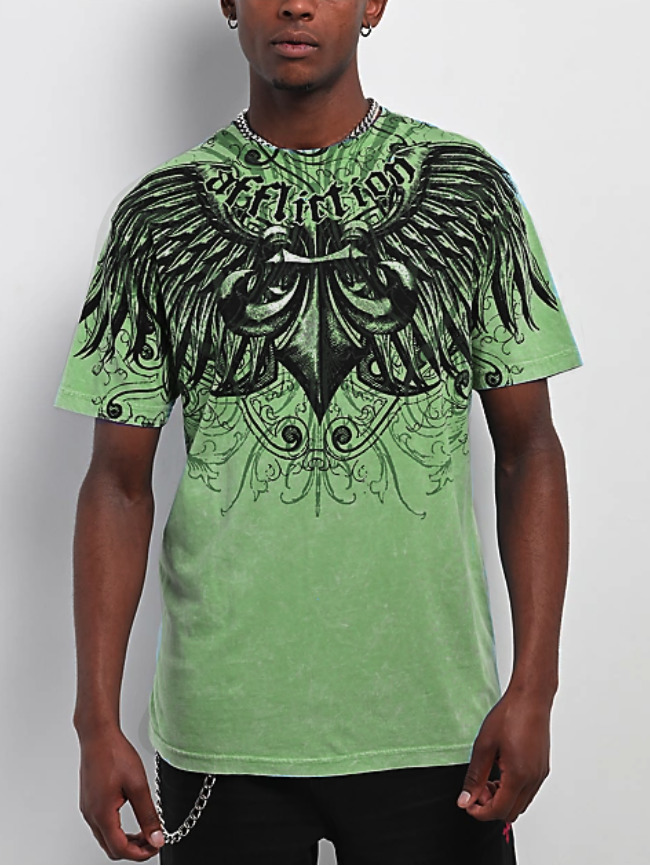
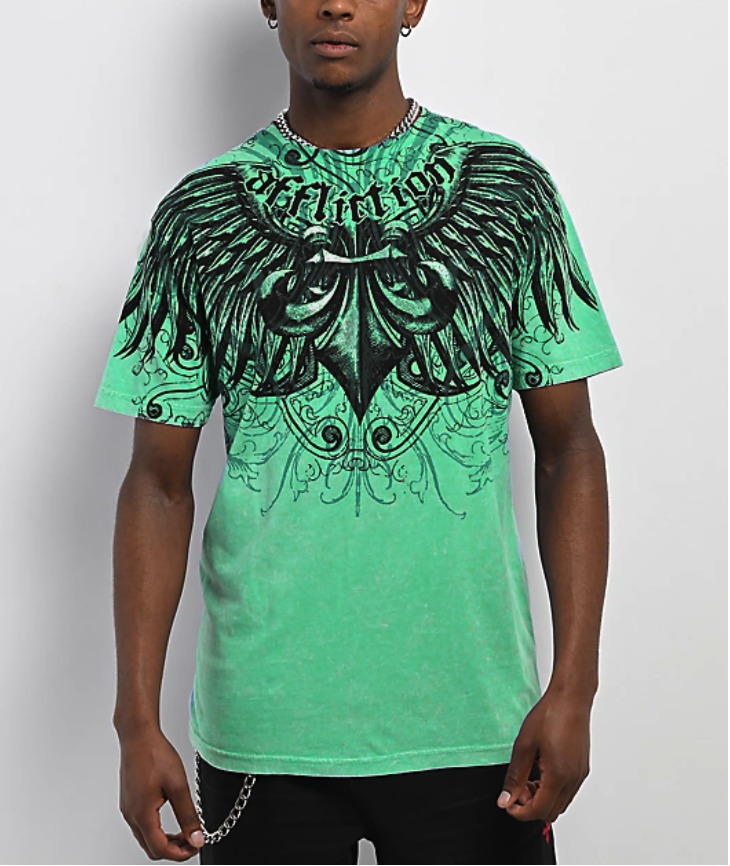
Add files via upload

diff --git a/gra1144cp6HaileyBallard2026/index.html b/gra1144cp6HaileyBallard2026/index.html
@@ -39,13 +39,185 @@ button:hover {
     background-color: #8DC3E3;
 }
 #purpleswatch {
-    background-color: #AE65DA;
+    background-color: #7D2782;
 }
 #greenswatch {
-    background-color: #92C28A;
+    background-color: #00C58B;
 }
 #product {
     position: relative;
+}
+:root {
+  --zumiez-black: #000000;
+  --zumiez-white: #ffffff;
+  --zumiez-gray: #f4f4f4;
+  --zumiez-red: #d0021b; /* Used for Sale text */
+}
+
+body {
+  margin: 0;
+  font-family: "Helvetica Neue", Arial, sans-serif;
+}
+
+.header-container {
+  max-width: 1200px;
+  margin: 0 auto;
+  display: flex;
+  align-items: center;
+  justify-content: space-between;
+  padding: 0 20px;
+}
+
+/* 1. Utility Bar */
+.utility-bar {
+  background-color: var(--zumiez-black);
+  color: white;
+  font-size: 11px;
+  text-transform: uppercase;
+  padding: 8px 0;
+}
+
+.utility-links a {
+  color: white;
+  text-decoration: none;
+  margin-left: 15px;
+}
+
+/* 2. Main Header */
+.main-header {
+  padding: 20px 0;
+  border-bottom: 1px solid #ddd;
+}
+
+.logo {
+  font-size: 32px;
+  font-weight: 900;
+  letter-spacing: -1px;
+  cursor: pointer;
+}
+
+.search-container {
+  flex: 0 1 500px; /* Takes up space but has a max limit */
+  display: flex;
+  border: 1px solid #ccc;
+}
+
+.search-container input {
+  width: 100%;
+  padding: 10px;
+  border: none;
+  outline: none;
+}
+
+.search-btn {
+  background: white;
+  border: none;
+  padding: 0 15px;
+  cursor: pointer;
+}
+
+/* 3. Navigation Bar */
+.nav-bar {
+  background: var(--zumiez-white);
+  border-bottom: 4px solid var(--zumiez-black); /* Thick bottom border is very Zumiez */
+}
+
+.nav-links {
+  list-style: none;
+  display: flex;
+  margin: 0;
+  padding: 0;
+  width: 100%;
+  justify-content: space-between;
+}
+
+.nav-links li a {
+  display: block;
+  padding: 15px 0;
+  text-decoration: none;
+  color: var(--zumiez-black);
+  font-weight: bold;
+  font-size: 13px;
+  text-transform: uppercase;
+}
+
+.nav-links li a:hover {
+  text-decoration: underline;
+}
+
+.nav-links li a.sale {
+  color: var(--zumiez-red);
+}	
+	/* Container for the new size and cart sections */
+.zu-product-options {
+    margin-top: 20px;
+    font-family: Arial, sans-serif; /* Matches typical e-commerce fonts */
+}
+
+/* Label above the size buttons */
+.zu-option-label {
+    display: block;
+    font-size: 13px;
+    font-weight: 700;
+    margin-bottom: 8px;
+    text-transform: uppercase;
+}
+
+/* Flex group for size buttons */
+.zu-size-options-group {
+    display: flex;
+    flex-wrap: wrap;
+    gap: 8px; /* Standard spacing on Zumiez */
+    margin-bottom: 25px;
+}
+
+/* Styling for the unselected size buttons */
+.zu-size-button {
+    display: block;
+    width: 44px; /* Standard square button size */
+    height: 44px;
+    border: 1px solid #ccc; /* Default border color */
+    background-color: #fff;
+    color: #333;
+    font-size: 14px;
+    font-weight: 700;
+    text-align: center;
+    line-height: 44px; /* Vertically center the text */
+    text-decoration: none; /* Remove default link underlining */
+    transition: all 0.2s;
+    cursor: pointer;
+}
+
+/* Hover state for size buttons */
+.zu-size-button:hover {
+    border-color: #666;
+}
+
+/* The 'active' state styled exactly like Zumiez */
+.zu-size-button.active {
+    background-color: #000; /* Black background on select */
+    color: #fff; /* White text on select */
+    border-color: #000;
+}
+
+/* Styling for the 'Add to Bag' button */
+.zu-add-to-bag-btn {
+    display: block;
+    width: 100%; /* Full width within the product description column */
+    padding: 15px;
+    background-color: #cc0000; /* Zumiez's signature red */
+    color: #fff;
+    font-size: 16px;
+    font-weight: 700;
+    border: none;
+    text-transform: uppercase;
+    cursor: pointer;
+    transition: background-color 0.2s;
+}
+
+/* Hover state for the 'Add to Bag' button */
+.zu-add-to-bag-btn:hover {
+    background-color: #b30000; /* A darker red for feedback */
 }
 </style>
 <script type="text/javascript">
@@ -80,14 +252,54 @@ function MM_showHideLayers() { //v9.0
 </script>
 </head>
 
-<body onLoad="MM_preloadImages('Blue-back.png','Purple front.jpg','Green-front.jpg')">
+<body onLoad="MM_preloadImages('Blue-back.png','Purple front.jpg','Green-front.jpg','Purple-back.jpg')">
 <wrapper>
-  <header>
-    <h1>Zumiez</h1>
+  <header class="zumiez-header">
+    <div class="utility-bar">
+    <div class="header-container">
+      <span class="promo-text">Free Shipping on Orders Over $50</span>
+      <div class="utility-links">
+        <a href="#">Help</a>
+        <a href="#">Order Status</a>
+        <a href="#">Login</a>
+      </div>
+    </div>
+  </div>
+
+  <div class="main-header">
+    <div class="header-container">
+      <div class="logo">ZUMIEZ</div>
+      
+      <div class="search-container">
+        <input type="text" placeholder="Search for brands, styles, or items...">
+        <button class="search-btn">🔍</button>
+      </div>
+
+      <div class="header-icons">
+        <span class="icon">Wishlist</span>
+        <span class="icon">Bag (0)</span>
+      </div>
+    </div>
+  </div>
+
+  <nav class="nav-bar">
+    <div class="header-container">
+      <ul class="nav-links">
+        <li><a href="#" class="sale">SALE</a></li>
+        <li><a href="#">MEN'S</a></li>
+        <li><a href="#">WOMEN'S</a></li>
+        <li><a href="#">SHOES</a></li>
+        <li><a href="#">ACCESSORIES</a></li>
+        <li><a href="#">SKATE</a></li>
+        <li><a href="#">SNOW</a></li>
+        <li><a href="#">BRANDS</a></li>
+      </ul>
+    </div>
+  </nav>
   </header>
   <main>
     <section id="product">
-	  <a href="#" onMouseOut="MM_swapImgRestore()" onMouseOver="MM_swapImage('blueshirt','','Blue-back.png',1)"><img src="Blue-front.png" alt="Blue Shirt" width="730" height="866" id="blueshirt"></a><a href="#" onMouseOut="MM_swapImgRestore()" onMouseOver="MM_swapImage('Prurpleshirt','','Purple front.jpg',1)"><img src="Purple front.jpg" alt="Purple Shirt" width="650" height="866" id="Prurpleshirt"></a><a href="#" onMouseOut="MM_swapImgRestore()" onMouseOver="MM_swapImage('Greenshirt','','Green-front.jpg',1)"><img src="Green-front.jpg" alt="Green shirt" width="650" height="866" id="Greenshirt"></a> </section>
+	  <a href="#" onMouseOut="MM_swapImgRestore()" onMouseOver="MM_swapImage('blueshirt','','Blue-back.png',1)"><img src="Blue-front.png" alt="Blue Shirt" width="730" height="866" id="blueshirt"></a><a href="#" onMouseOut="MM_swapImgRestore()" onMouseOver="MM_swapImage('Prurpleshirt','','Purple front.jpg',1)"><img src="Purple-front.jpg" alt="Purple Shirt" width="650" height="866" id="Prurpleshirt"></a><a href="#" onMouseOut="MM_swapImgRestore()" onMouseOver="MM_swapImage('Greenshirt','','Green-front.jpg',1)"><img src="Green-front.jpg" alt="Green shirt" width="650" height="866" id="Greenshirt"></a> </section>
 <section id="decription">
       <h2>Affliction T-Shirt</h2>
 		<p>This Affliction t-shirt delivers a bold edge with its icy wash and layered graphics. The front showcases black screen-printed designs accented with scattered silver foil hits, giving the shirt a metallic flash from every angle. On the back, signature wing artwork and branding bring the classic Affliction aesthetic to life over a custom-dyed blue and white base.</p>
@@ -95,7 +307,23 @@ function MM_showHideLayers() { //v9.0
 	  <button id="blueswatch" onClick="MM_showHideLayers('blueshirt','','show','Prurpleshirt','','hide','Greenshirt','','hide')"></button>
 	  <button id="purpleswatch" onClick="MM_showHideLayers('blueshirt','','hide','Prurpleshirt','','show','Greenshirt','','hide')"></button>
 		<button id="greenswatch" onClick="MM_showHideLayers('blueshirt','','hide','Prurpleshirt','','hide','Greenshirt','','show')"></button>
-    </section>
+   <div class="zu-product-options">
+    <div class="zu-size-selector-container">
+        <label class="zu-option-label">Select a Size</label>
+        <div class="zu-size-options-group">
+            <a href="#" class="zu-size-button" data-size="S">S</a>
+            <a href="#" class="zu-size-button" data-size="M">M</a>
+            <a href="#" class="zu-size-button" data-size="L">L</a>
+            <a href="#" class="zu-size-button" data-size="XL">XL</a>
+            <a href="#" class="zu-size-button" data-size="XXL">XXL</a>
+        </div>
+    </div>
+
+    <div class="zu-actions-container">
+        <button type="button" class="zu-add-to-bag-btn">Add to Bag</button>
+    </div>
+</div>
+	  </section>
   </main>
   <footer></footer>
 </wrapper>
